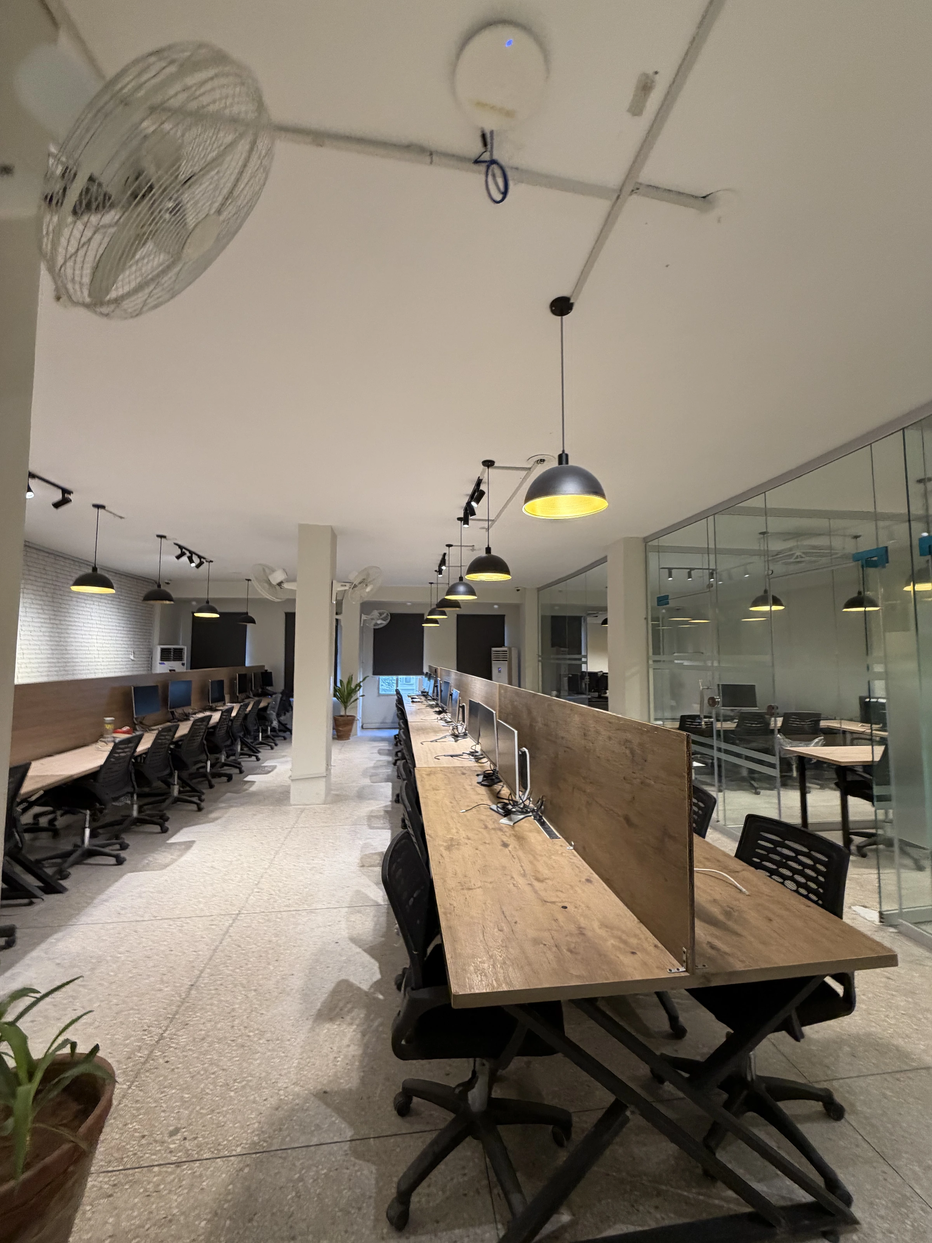
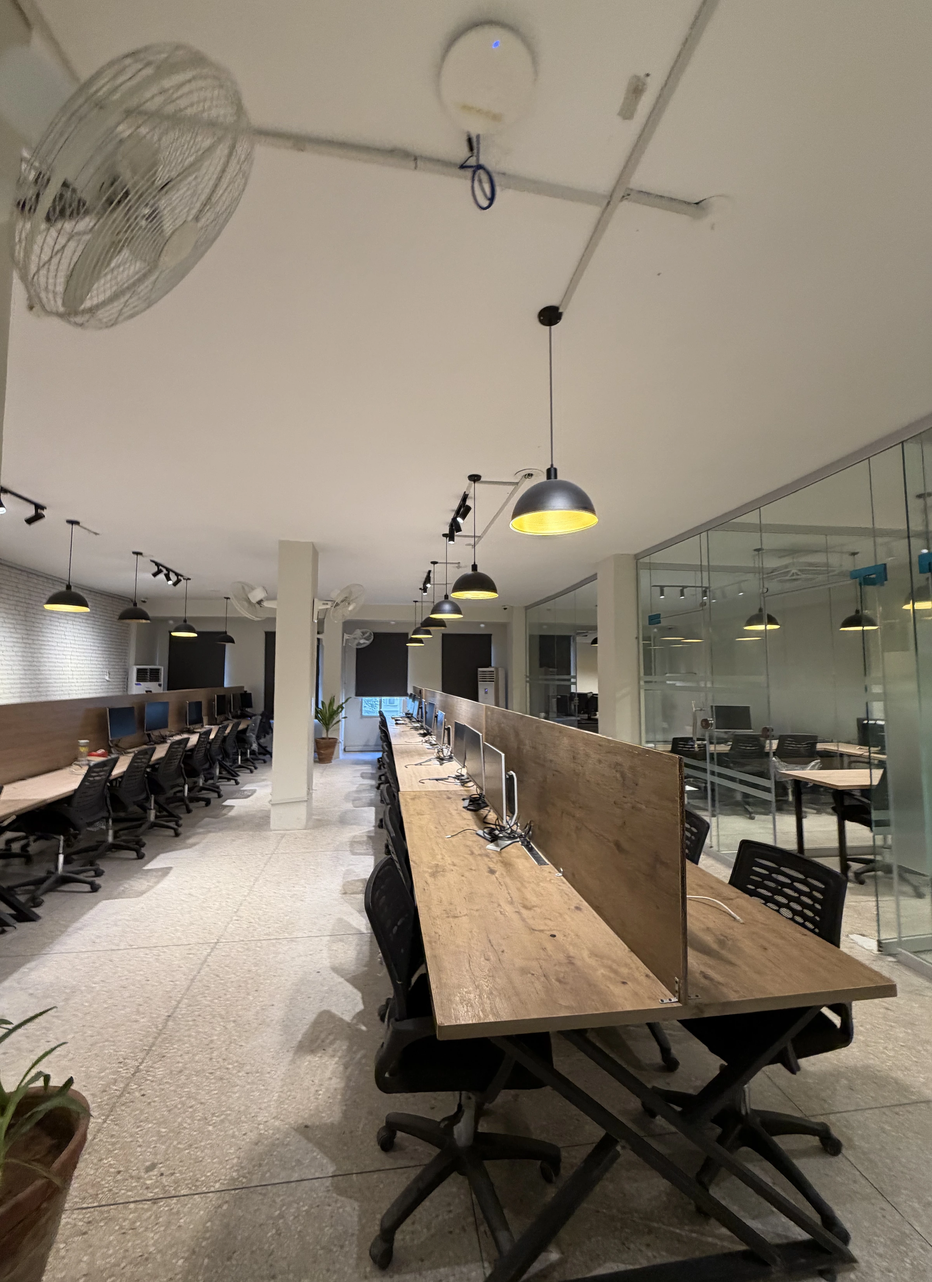
fix: remove dark strip on the left edge of the hero photo
Crop the outer 3% off the left of IMG_7623, where a wall corner close
to the camera showed as a black bar, and lighten the left text shadow
slightly. Colours are unchanged.

diff --git a/src/app/page.tsx b/src/app/page.tsx
@@ -31,7 +31,7 @@ export default function Home() {
           />
           {/* Only a soft shadow behind the text and header; the rest of the photo is left as shot. */}
           <div
-            className="absolute inset-0 bg-linear-to-t from-black/70 via-black/40 to-black/10 sm:bg-linear-to-r sm:from-black/65 sm:via-black/25 sm:to-transparent"
+            className="absolute inset-0 bg-linear-to-t from-black/70 via-black/40 to-black/10 sm:bg-linear-to-r sm:from-black/55 sm:via-black/25 sm:to-transparent"
             aria-hidden="true"
           />
           <div className="absolute inset-x-0 top-0 h-28 bg-linear-to-b from-black/40 to-transparent" aria-hidden="true" />
